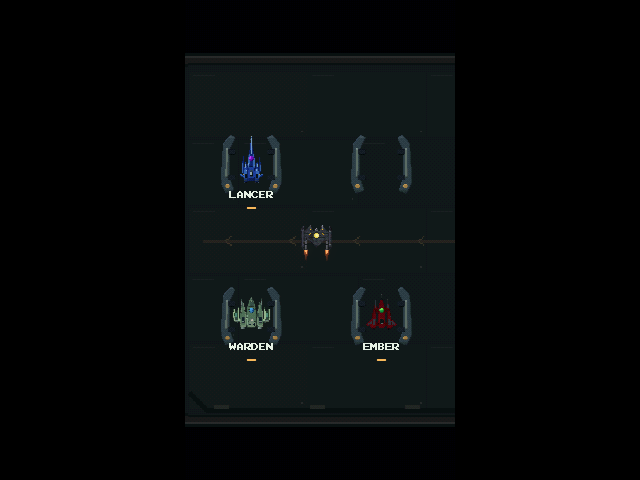
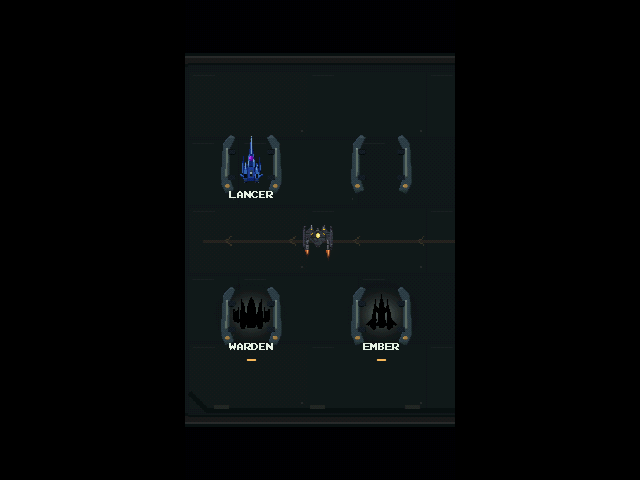
Render locked Fleet hulls and service portraits as backlit black silhouettes

diff --git a/Assets/Scripts/Run/HangarExhibits.cs b/Assets/Scripts/Run/HangarExhibits.cs
@@ -111,7 +111,10 @@ public sealed partial class HangarHub
     {
         var hull = ShipFrames.Get((ShipFrame)selection);
         var record = MetaProgress.Record(hull.frame, modes[band]);
-        Photo(Resources.Load<Texture2D>("DockArt/Portrait" + hull.frame), new Rect(0, 0, 1, 1), -193, 117, 165, Color.white);
+        bool open = MetaProgress.CanFly(hull.frame);
+        if (!open)
+            Tile(-193, 117, 165, 165, Metal);
+        Photo(Resources.Load<Texture2D>("DockArt/Portrait" + hull.frame), new Rect(0, 0, 1, 1), -193, 117, 165, open ? Color.white : Color.black);
         Legend(hull.frame.ToString().ToUpperInvariant(), 76, 179, 350, 56, 41, DockInstrument.Paper, true);
         Legend(hull.hits + " HP  " + hull.moveSpeed.ToString("0.#") + " SPD", 76, 126, 350, 38, 21, lamps[room]);
         string gun = hull.primary == "BaseWeapon" ? "Twin cannon" : hull.primary == null ? "Unarmed" : FlightTrials.Display(hull.primary);
@@ -120,7 +123,7 @@ public sealed partial class HangarHub
         {
             Legend(modes[band].ToString().ToUpperInvariant(), 0, -30, 558, 42, 24, lamps[room]);
             Legend(record.flights + " flights", 0, -86, 558, 48, 30, DockInstrument.Paper);
-            Legend(MetaProgress.Ship == hull.frame ? "IN FLIGHT" : MetaProgress.CanFly(hull.frame) ? "COMMISSIONED" : "Clear Hell in " + (ShipFrame)(selection - 1),
+            Legend(MetaProgress.Ship == hull.frame ? "IN FLIGHT" : open ? "COMMISSIONED" : "Clear Hell in " + (ShipFrame)(selection - 1),
                 0, -177, 558, 40, 20, DockInstrument.Brass);
             return;
         }
@@ -144,7 +147,6 @@ public sealed partial class HangarHub
             Legend(captions[i], x, -132, 175, 28, 17, DockInstrument.Muted);
             Legend(values[i], x, -162, 175, 36, 24, DockInstrument.Paper, true);
         }
-        bool open = MetaProgress.CanFly(hull.frame);
         string status = !open ? "Clear Hell in " + (ShipFrame)(selection - 1) : MetaProgress.Ship == hull.frame ? "IN FLIGHT" : "READY TO FLY";
         Legend(status, 0, -197, 558, 28, 18, DockInstrument.Brass);
     }

diff --git a/Assets/Scripts/Run/HangarConcourse.cs b/Assets/Scripts/Run/HangarConcourse.cs
@@ -316,8 +316,12 @@ public sealed partial class HangarHub
         var plaque = MountedPanel("Berth service plate", b, new Vector2(4.35f, .8f));
         berthNotice = WorldLabel(plaque, "", Vector2.zero, new Vector2(422, 73), 29, DockInstrument.Brass);
         plaque.gameObject.SetActive(false);
+        var washVertices = new List<Vector3>();
+        var washColors = new List<Color>();
+        var washTriangles = new List<int>();
         for (int i = 0; i < ShipFrames.Count; i++)
         {
+            bool locked = !MetaProgress.CanFly((ShipFrame)i);
             Vector2 spot = new Vector2(-21.25f - (i % 2) * 4.8f, b.y + (i < 2 ? 2.85f : -2.75f));
             MountModel("DockSaddle", Spot(spot, 3), -4, "Background");
             var hull = ShipFrames.BuildDisplay(player, ShipFrames.Get((ShipFrame)i));
@@ -329,14 +333,22 @@ public sealed partial class HangarHub
                 renderer.gameObject.layer = 0;
                 renderer.sortingLayerName = "Background";
                 renderer.sortingOrder = -2;
+                if (locked)
+                    renderer.sharedMaterial = silhouette;
             }
             parkedShips.Add(hull.transform);
             berthNames.Add((RectTransform)Stencil(((ShipFrame)i).ToString().ToUpperInvariant(), spot + Vector2.down * 1.2f, 1.8f, DockInstrument.Paper).transform.parent);
             hull.SetActive(i != (int)MetaProgress.Ship);
             berthNames[i].gameObject.SetActive(hull.activeSelf);
-            if (!MetaProgress.CanFly((ShipFrame)i))
+            if (locked)
+            {
+                GalleryWell(washVertices, washColors, washTriangles, spot, 1.42f,
+                    new Color(.40f, .46f, .44f), Color.clear);
                 Strip("Berth interlock", spot + Vector2.down * 1.68f, new Vector2(.32f, .075f), DockInstrument.Brass, -5);
+            }
         }
+        if (washVertices.Count > 0)
+            GallerySurface("Locked berth backlights", washVertices, washColors, washTriangles, -8);
     }
 
     bool UpdateDock(Vector3 p)

diff --git a/Assets/Scripts/Run/HangarHub.cs b/Assets/Scripts/Run/HangarHub.cs
@@ -175,6 +175,7 @@ public sealed partial class HangarHub : MonoBehaviour
         cameraTravel = -inlet;
         shaker = view != null ? view.GetComponent<EZCameraShake.CameraShaker>() : null;
         scenery = new Material(Resources.Load<Shader>("LevelScenery"));
+        silhouette = new Material(Resources.Load<Shader>("GallerySilhouette"));
         var display = new GameObject("Native dock displays", typeof(RectTransform));
         display.transform.SetParent(transform, false);
         readouts = display.AddComponent<DockReadouts>();

diff --git a/Assets/Scripts/Run/HangarGallery.cs b/Assets/Scripts/Run/HangarGallery.cs
@@ -38,7 +38,6 @@ public sealed partial class HangarHub
         platforms = new MeshRenderer[exhibits.Length];
         caseVertices = new int[exhibits.Length + 1];
         dimItem = new MaterialPropertyBlock();
-        silhouette = new Material(Resources.Load<Shader>("GallerySilhouette"));
         var floor = new List<Vector3>();
         var colors = new List<Color>();
         var indices = new List<int>();
